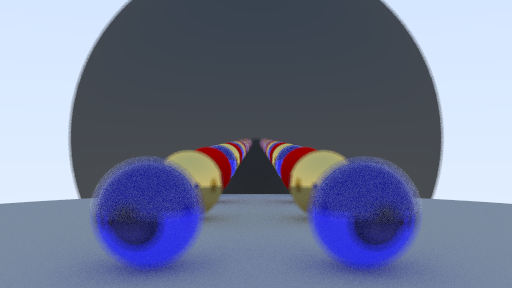
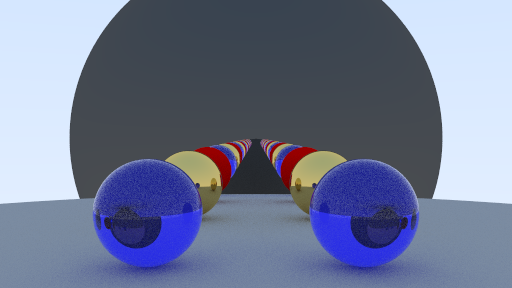
Optimization experiments and Timer class

diff --git a/src/timer.hpp b/src/timer.hpp
@@ -1,0 +1,30 @@
+#pragma once
+
+#include <chrono>
+#include <string>
+#include <iostream>
+
+namespace art {
+	class Timer {
+	public:
+		Timer(const std::string &name = "Default") :
+			m_startTimepoint(std::chrono::high_resolution_clock::now()),
+			m_name(name) {}
+		~Timer() { Stop(); }
+
+		void Stop() {
+			auto endTime = std::chrono::high_resolution_clock::now();
+
+			auto start = std::chrono::time_point_cast<std::chrono::milliseconds>(m_startTimepoint).time_since_epoch().count();
+			auto end = std::chrono::time_point_cast<std::chrono::milliseconds>(endTime).time_since_epoch().count();
+
+			auto duration = end - start;
+
+			std::cout << m_name << " = " << duration * 0.001 << " seconds (" << duration << " ms)\n";
+		}
+
+	private:
+		std::chrono::time_point<std::chrono::high_resolution_clock> m_startTimepoint;
+		std::string m_name;
+	};
+}

diff --git a/src/main.cpp b/src/main.cpp
@@ -10,17 +10,24 @@
 #include "camera.hpp"
 #include "material.hpp"
 #include "scene.hpp"
+#include "timer.hpp"
 
 
 int main() {
     art::Image image(512, 288);
     art::Scene scene{};
-    art::Camera camera(100, 15, glm::vec3(0, 0.7, 5), glm::vec3(0, 0, -50), 30, 0.4, 15);
+    art::Camera camera(100, 10, glm::vec3(0, 0.7, 5), glm::vec3(0, 0, -50), 30, 0, 15);
 
-    camera.Render(image, scene);
+    {
+        art::Timer timer{"Rendering"};
+        camera.Render(image, scene);
+    }
+
+    {
+        art::Timer timer{"Saving"};
+        image.SaveAsPng("test");
+    }
     
-    std::clog << "Done! Saving image.\n";
-    image.SaveAsPng("test");
 
     return 0;
 }
